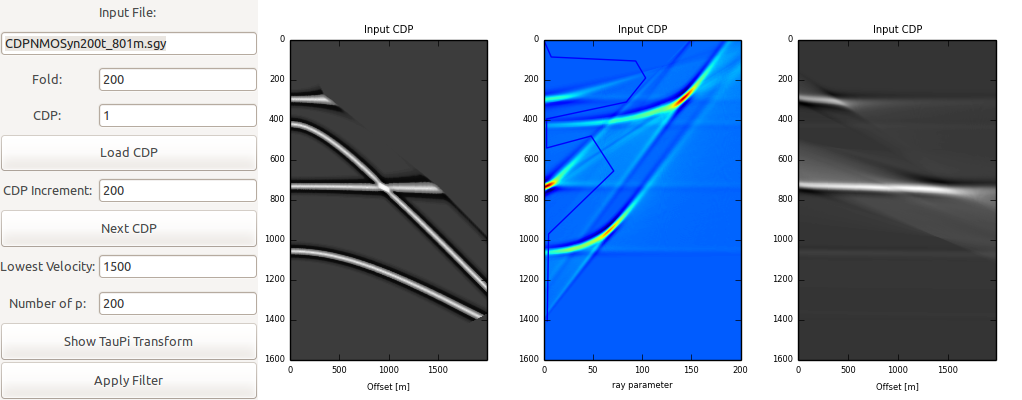
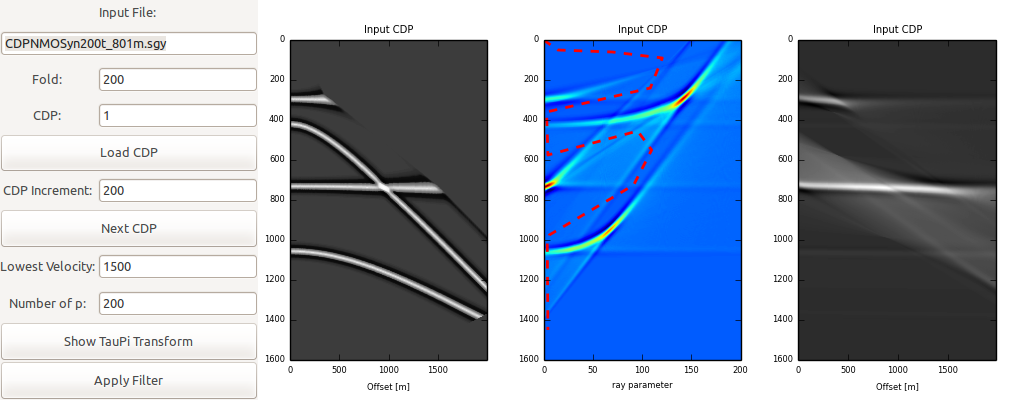
Update figures

diff --git a/taupi.py b/taupi.py
@@ -187,6 +187,9 @@ class LineBuilder:
         self.line = line
         self.xs = list(line.get_xdata())
         self.ys = list(line.get_ydata())
+        line.set_color('red')
+        line.set_linestyle('--')
+        line.set_linewidth(2.0)
         self.cid = line.figure.canvas.mpl_connect('button_press_event', self)
 
     def __call__(self, event):
